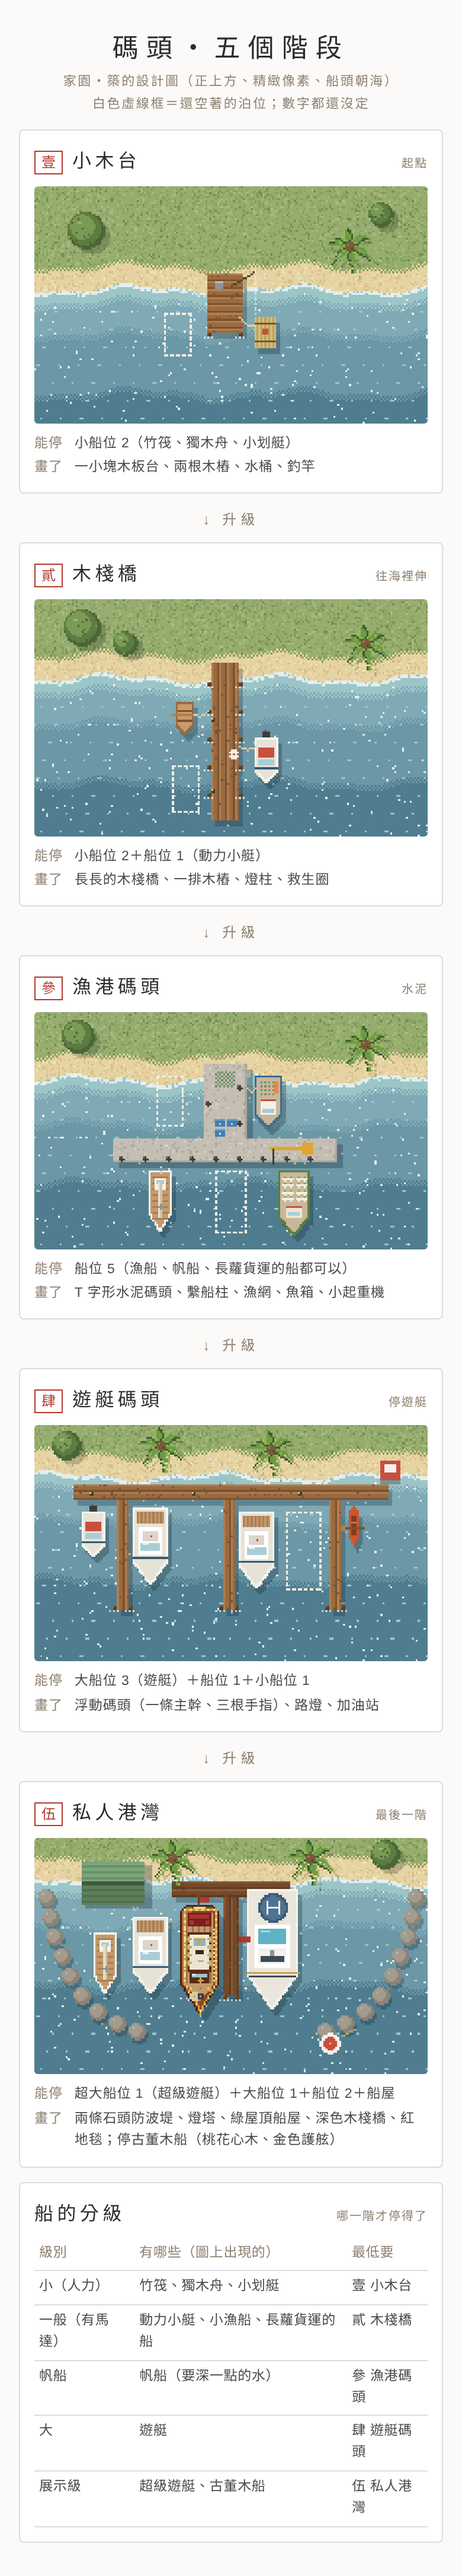
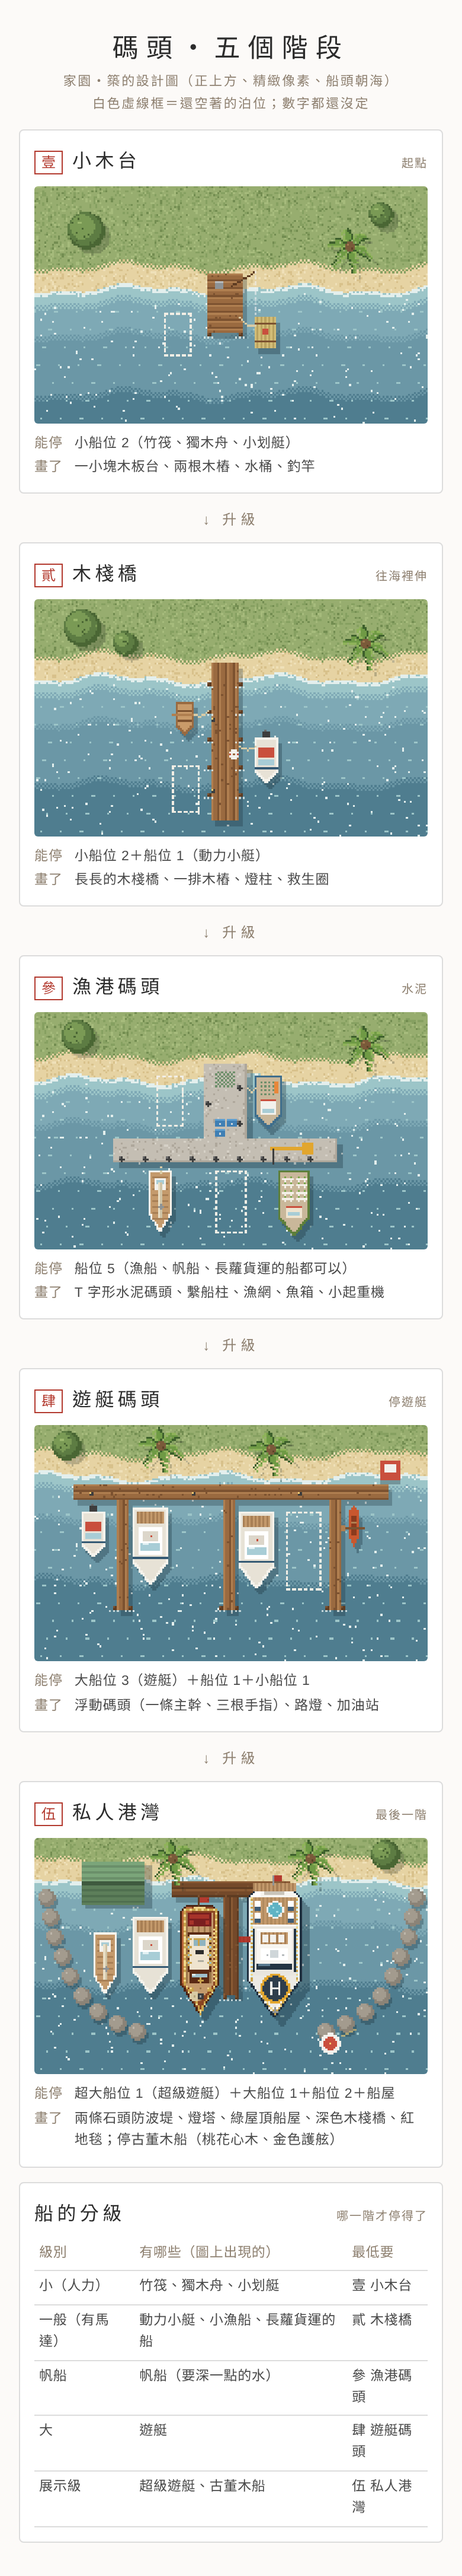
docs: upgrade superyacht and tall ship designs
Claude-Session: https://claude.ai/code/session_01DfELKGAuUeHGLNNJha5AAX

Changed region(s): [[0.5231, 0.7151, 0.6769, 0.8084]]

diff --git a/docs/plans/jiayuan/boats.html b/docs/plans/jiayuan/boats.html
@@ -53,7 +53,7 @@
   </section>
   <section class="card">
     <div class="h"><span class="name">展示級</span><span class="tag">最低要 伍 私人港灣・3 艘</span></div>
-    <canvas id="bShow" width="150" height="70"></canvas>
+    <canvas id="bShow" width="150" height="84"></canvas>
     <div id="bShowL" class="labels"></div>
   </section>
 </main>
@@ -164,11 +164,40 @@ function motorboat(x, a, b) { hull(x, a, b, 12, 24, 7, K.hull || '#f6f3ec'); pol
 function fishing(x, a, b) { hull(x, a, b, 14, 28, 8, '#3f6e8c'); poly(x, [[a + 1, b + 1], [a + 13, b + 1], [a + 13, b + 19], [a + 7, b + 26], [a + 1, b + 19]], '#c9b79a'); R(x, a + 3, b + 12, 8, 8, '#f3f1ec'); R(x, a + 4, b + 17, 6, 2, K.glass); R(x, a + 3, b + 12, 8, 1, '#c94f3d'); for (let i = 0; i < 4; i++) for (let j = 0; j < 4; j++) P(x, a + 3 + i * 2, b + 3 + j * 2, '#6d8f6a'); R(x, a + 10, b + 3, 2, 6, '#e8873a'); }
 function sailboat(x, a, b) { hull(x, a, b, 12, 32, 10, '#f6f3ec'); poly(x, [[a + 1, b + 1], [a + 11, b + 1], [a + 11, b + 21], [a + 6, b + 30], [a + 1, b + 21]], '#c49a6c'); for (let j = 3; j < 26; j += 3) R(x, a + 2, b + j, 8, 1, '#a87f55'); R(x, a + 3, b + 4, 6, 6, '#f3f1ec'); R(x, a + 4, b + 5, 4, 2, K.glass); R(x, a + 5, b + 6, 2, 18, '#e9dfc6'); R(x, a + 6, b + 6, 1, 18, '#cfc3a5'); circ(x, a + 6, b + 18, 1, '#8e9396'); R(x, a, b + 31, 12, 0, '#000'); }
 function yacht(x, a, b) { hull(x, a, b, 18, 40, 12, '#f6f3ec'); poly(x, [[a + 1, b + 1], [a + 17, b + 1], [a + 17, b + 27], [a + 9, b + 38], [a + 1, b + 27]], '#e7e2d6'); R(x, a + 2, b + 2, 14, 6, '#c49a6c'); for (let i = 2; i < 16; i += 2) R(x, a + i, b + 2, 1, 6, '#a87f55'); R(x, a + 3, b + 10, 12, 14, '#ffffff'); R(x, a + 4, b + 18, 10, 4, K.glass); R(x, a + 5, b + 18, 3, 1, K.glassHi); R(x, a + 5, b + 12, 8, 5, '#dcd6ca'); R(x, a, b + 25, 18, 1, '#355a74'); P(x, a + 9, b + 14, '#c94f3d'); }
-function superyacht(x, a, b) { hull(x, a, b, 26, 62, 18, '#f6f3ec'); poly(x, [[a + 1, b + 1], [a + 25, b + 1], [a + 25, b + 43], [a + 13, b + 60], [a + 1, b + 43]], '#ebe6db');
-  circ(x, a + 13, b + 9, 7, '#3d5a73'); circ(x, a + 13, b + 9, 6, '#4f7393'); R(x, a + 10, b + 6, 1, 7, '#f3f1ec'); R(x, a + 16, b + 6, 1, 7, '#f3f1ec'); R(x, a + 10, b + 9, 7, 1, '#f3f1ec');   // 直升機停機坪
-  R(x, a + 4, b + 18, 18, 22, '#ffffff'); R(x, a + 6, b + 20, 14, 8, '#5fb3c4'); R(x, a + 7, b + 21, 5, 1, '#9fdce4');   // 小泳池
-  R(x, a + 6, b + 30, 14, 8, '#f3f1ec'); R(x, a + 7, b + 34, 12, 3, '#3d4a55'); R(x, a + 12, b + 31, 2, 3, '#8e9396');   // 艦橋
-  R(x, a, b + 42, 26, 1, '#c9a24a'); R(x, a + 1, b + 44, 24, 1, '#3d4a55'); }
+function superyacht(x, a, b) {   // 超級遊艇（展示級）：28 × 66；船尾（上）游泳平台、按摩池，船頭（下）直升機坪
+  const W = 28, L = 66, bow = 20;
+  const outer = [[a + 4, b], [a + W - 4, b], [a + W, b + 5], [a + W, b + L - bow], [a + W / 2, b + L], [a, b + L - bow], [a, b + 5]];
+  poly(x, outer.map(([u, v]) => [u + 4, v + 5]), 'rgba(20,40,50,.32)');
+  poly(x, outer, '#1f2f3f');                                                                   // 深藍吃水線
+  const hullIn = [[a + 4, b + 1], [a + W - 4, b + 1], [a + W - 1, b + 5], [a + W - 1, b + L - bow], [a + W / 2, b + L - 2], [a + 1, b + L - bow], [a + 1, b + 5]];
+  poly(x, hullIn, '#f7f5f0'); poly(x, [[a + 4, b + 1], [a + 7, b + 1], [a + 3, b + L - bow], [a + 1, b + L - bow], [a + 1, b + 5]], '#ffffff');
+  const line = (pts, c1, c2) => { for (let k = 0; k < pts.length - 1; k++) { const [x0, y0] = pts[k], [x1, y1] = pts[k + 1], n = Math.max(Math.abs(x1 - x0), Math.abs(y1 - y0)); for (let i = 0; i <= n; i++) P(x, x0 + (x1 - x0) * i / n, y0 + (y1 - y0) * i / n, (i + k) % 3 ? c1 : c2); } };
+  line([[a + 2, b + 4], [a + 2, b + L - bow], [a + W / 2, b + L - 3], [a + W - 3, b + L - bow], [a + W - 3, b + 4]], '#c9a24a', '#f0d58a');   // 金色細線
+  // 船尾：柚木游泳平台＋小艇車庫門
+  R(x, a + 3, b - 3, W - 6, 4, '#c49a6c'); for (let i = 3; i < W - 3; i += 2) R(x, a + i, b - 3, 1, 4, '#a87f55'); R(x, a + 9, b + 1, 10, 2, '#c9c4b9');
+  // 主甲板（後段）：柚木＋按摩池＋躺椅
+  for (let v = b + 4; v < b + 18; v++) for (let u = a + 3; u < a + W - 3; u++) P(x, u, v, (u - a) % 2 ? '#c49a6c' : '#b08a5e');
+  circ(x, a + 14, b + 10, 4, '#f3f1ec'); circ(x, a + 14, b + 10, 3, '#5fb3c4'); P(x, a + 13, b + 9, '#9fdce4'); P(x, a + 15, b + 11, '#9fdce4');
+  [[a + 4, b + 6], [a + 21, b + 6], [a + 4, b + 12], [a + 21, b + 12]].forEach(([u, v]) => { R(x, u, v, 3, 5, '#ffffff'); R(x, u, v + 3, 3, 2, '#3d5a73'); });
+  // 上層甲板（往前一層一層疊）：深色玻璃帶、天線架、雷達球
+  R(x, a + 3, b + 18, W - 6, 26, '#e9e6df'); R(x, a + 3, b + 18, W - 6, 1, '#ffffff');
+  R(x, a + 3, b + 20, 1, 22, '#243543'); R(x, a + W - 4, b + 20, 1, 22, '#243543');               // 兩側長窗
+  R(x, a + 5, b + 20, W - 10, 18, '#f7f5f0'); R(x, a + 5, b + 20, W - 10, 1, '#ffffff');           // 第二層
+  R(x, a + 7, b + 22, W - 14, 6, '#c49a6c'); for (let i = 7; i < W - 7; i += 2) R(x, a + i, b + 22, 1, 6, '#a87f55');   // 日光甲板
+  [[a + 8, b + 23], [a + 12, b + 23], [a + 16, b + 23]].forEach(([u, v]) => R(x, u, v, 3, 4, '#f3f1ec'));
+  R(x, a + 7, b + 30, W - 14, 6, '#ffffff'); R(x, a + 12, b + 31, 4, 4, '#cfd6d9'); circ(x, a + 10, b + 33, 1, '#ffffff'); circ(x, a + 18, b + 33, 1, '#ffffff'); P(x, a + 10, b + 33, '#b8bcbe'); P(x, a + 18, b + 33, '#b8bcbe');   // 天線架＋兩顆雷達球
+  R(x, a + 5, b + 38, W - 10, 3, '#243543'); R(x, a + 6, b + 38, 6, 1, '#5a7a8f');                // 駕駛台的弧形黑玻璃
+  // 前甲板：直升機坪（深色圓、白 H、黃圈）
+  for (let v = b + 44; v < b + L - bow + 2; v++) for (let u = a + 3; u < a + W - 3; u++) P(x, u, v, '#eceae4');
+  poly(x, [[a + 3, b + L - bow + 2], [a + W - 3, b + L - bow + 2], [a + W / 2, b + L - 5]], '#eceae4');
+  const hx = a + W / 2, hy = b + 50;
+  circ(x, hx, hy, 7, '#e2a62e'); circ(x, hx, hy, 6, '#2f3e4c'); R(x, hx - 2, hy - 3, 1, 7, '#f3f1ec'); R(x, hx + 2, hy - 3, 1, 7, '#f3f1ec'); R(x, hx - 2, hy, 5, 1, '#f3f1ec');
+  // 船頭：錨＋旗桿
+  R(x, hx, b + L - 6, 1, 3, '#8e9396'); P(x, hx - 1, b + L - 4, '#8e9396'); P(x, hx + 1, b + L - 4, '#8e9396');
+  R(x, a + 13, b - 7, 1, 5, '#8e9396'); R(x, a + 14, b - 7, 4, 3, '#b33a2f');
+  // 欄杆（玻璃）
+  for (let v = b + 6; v < b + L - bow; v += 2) { P(x, a + 2, v, '#d6eef2'); P(x, a + W - 3, v, '#d6eef2'); }
+}
 function runabout(x, a, b) {   // 古董木船（展示級）：1930 年代的桃花心木遊艇，20 × 56；船尾圓（上）、船頭尖（下）
   const W = 20, L = 56, bow = 16;
   const outer = [[a + 3, b], [a + W - 3, b], [a + W, b + 4], [a + W, b + L - bow], [a + W / 2, b + L], [a, b + L - bow], [a, b + 4]];
@@ -248,18 +277,45 @@ function sportfisher(x, a, b) {   // 釣魚遊艇：塔架、兩根外伸竿
   R(x, a + 4, b + 13, 8, 5, '#3d4a55'); R(x, a + 4, b + 13, 8, 1, '#6a7f8e');   // 塔架頂
   for (let i = 0; i < 14; i++) { P(x, a + 2 - i * .8, b + 14 - i * .5, '#8e9396'); P(x, a + 14 + i * .8, b + 14 - i * .5, '#8e9396'); }
   R(x, a, b + 24, 16, 1, '#c94f3d'); }
-function tallShip(x, a, b) {   // 古典三桅帆船：木頭、三根桅、收起來的帆
-  hull(x, a, b, 16, 58, 14, '#4a2e1c'); poly(x, [[a + 1, b + 1], [a + 15, b + 1], [a + 15, b + 43], [a + 8, b + 56], [a + 1, b + 43]], '#b98a5a');
-  for (let j = 3; j < 44; j += 3) R(x, a + 2, b + j, 12, 1, '#a07448');
-  R(x, a, b, 16, 6, '#3a2416'); R(x, a + 2, b + 1, 12, 3, '#c9a24a');
-  [b + 12, b + 26, b + 40].forEach((v, k) => { R(x, a - 4 + k, v, 24 - k * 2, 3, '#efe4cf'); R(x, a - 4 + k, v + 2, 24 - k * 2, 1, '#d6c8a8'); circ(x, a + 8, v + 1, 1, '#3a2416'); });
-  for (let i = 0; i < 10; i++) P(x, a + 8, b + 47 + i, '#3a2416'); P(x, a + 8, b + 57, '#3a2416'); }
+function tallShip(x, a, b) {   // 古典三桅帆船（展示級）：船身 20 × 62，帆張開比船身寬；船尾（上）雕花樓台，船頭（下）斜桅和船首像
+  const W = 20, L = 62, bow = 16;
+  const outer = [[a + 2, b], [a + W - 2, b], [a + W, b + 6], [a + W, b + L - bow], [a + W / 2, b + L], [a, b + L - bow], [a, b + 6]];
+  poly(x, outer.map(([u, v]) => [u + 4, v + 5]), 'rgba(20,40,50,.32)');
+  poly(x, outer, '#2a1a10');
+  poly(x, [[a + 2, b + 1], [a + W - 2, b + 1], [a + W - 1, b + 6], [a + W - 1, b + L - bow], [a + W / 2, b + L - 2], [a + 1, b + L - bow], [a + 1, b + 6]], '#3f2616');
+  // 船邊：黃色腰帶＋一排方形砲窗
+  for (let v = b + 8; v < b + L - bow; v++) { P(x, a + 1, v, '#d9a441'); P(x, a + W - 2, v, '#d9a441'); }
+  for (let v = b + 10; v < b + L - bow - 2; v += 5) { R(x, a, v, 1, 2, '#1a0f08'); R(x, a + W - 1, v, 1, 2, '#1a0f08'); }
+  // 甲板（柚木）
+  for (let v = b + 4; v < b + L - bow + 4; v++) for (let u = a + 3; u < a + W - 3; u++) P(x, u, v, (u - a) % 3 === 0 ? '#9a7448' : '#c49a6c');
+  poly(x, [[a + 3, b + L - bow + 4], [a + W - 3, b + L - bow + 4], [a + W / 2, b + L - 5]], '#c49a6c');
+  // 船尾樓台：深色木頭、金色雕花窗、提燈、舵輪
+  R(x, a + 2, b + 1, W - 4, 9, '#5a2a14'); for (let i = 0; i < 5; i++) { R(x, a + 4 + i * 3, b + 2, 2, 2, '#f6cd72'); P(x, a + 4 + i * 3, b + 1, '#c9a24a'); }
+  R(x, a + 3, b + 5, W - 6, 1, '#c9a24a'); R(x, a + 3, b + 9, W - 6, 1, '#c9a24a');
+  circ(x, a + W / 2, b + 7, 1, '#c9a24a'); P(x, a + W / 2, b + 7, '#5a2a14');
+  R(x, a + W / 2 - 1, b - 3, 2, 3, '#c9a24a'); P(x, a + W / 2 - 1, b - 2, '#f6cd72'); P(x, a + W / 2, b - 2, '#f6cd72');   // 船尾提燈
+  R(x, a + W / 2 + 3, b - 6, 1, 6, '#5e3c22'); R(x, a + W / 2 + 4, b - 6, 5, 3, '#b33a2f');   // 朱色旗
+  // 救生艇
+  R(x, a + 4, b + 12, 3, 6, '#efe4cf'); R(x, a + 13, b + 12, 3, 6, '#efe4cf');
+  // 三根桅：張開的方帆（米白、有弧度陰影），帆比船身寬
+  [[b + 18, 30], [b + 32, 34], [b + 46, 28]].forEach(([v, sw]) => {
+    const sx = a + W / 2 - sw / 2;
+    R(x, sx + 3, v + 4, sw, 7, 'rgba(20,40,50,.25)');                                           // 帆的影子
+    for (let j = 0; j < 7; j++) for (let i = 0; i < sw; i++) { const bulge = Math.sin(i / (sw - 1) * Math.PI); let c = j < 2 ? '#fbf5e6' : j < 5 ? '#efe4cf' : '#d9c9a8'; if (bulge < .25) c = j < 4 ? '#e2d5b6' : '#cbb994'; if (i % 6 === 0) c = '#d2c3a2'; P(x, sx + i, v + j + Math.round(bulge * 1.5), c); }
+    R(x, sx - 1, v - 1, sw + 2, 1, '#3f2616');                                                   // 帆桁
+    circ(x, a + W / 2, v + 3, 2, '#3f2616'); P(x, a + W / 2, v + 3, '#c9a24a');                  // 桅頂瞭望台
+    for (let k = 0; k < 4; k++) { P(x, sx - 2 - k, v + 8 + k, '#8a7a62'); P(x, sx + sw + 1 + k, v + 8 + k, '#8a7a62'); }   // 索具
+  });
+  // 船頭：斜桅、三角帆、金色船首像
+  R(x, a + W / 2, b + L - 4, 1, 10, '#3f2616'); poly(x, [[a + W / 2 + 1, b + L - 2], [a + W / 2 + 1, b + L + 5], [a + W / 2 + 5, b + L - 1]], '#efe4cf');
+  P(x, a + W / 2, b + L - 3, '#f0d58a'); P(x, a + W / 2 - 1, b + L - 4, '#c9a24a');
+}
 
 const SMALL = [['竹筏', '竹子綁的', raft], ['獨木舟', '一支槳', canoe], ['小划艇', '兩支槳、木頭座位', rowboat], ['天鵝船', '用腳踩的', swan], ['立槳板', '站著划', sup]];
 const MOTOR = [['動力小艇', '後面掛馬達', motorboat], ['小漁船', '漁網、船艙', fishing], ['長蘿貨運的船', '載滿蘿蔔', cargo]];
 const SAIL = [['小帆船', '一面三角帆', dinghy], ['單桅帆船', '木甲板、收起來的帆', sailboat], ['雙體帆船', '兩個船身、中間網子', catamaran], ['戎克船', '紅色竹骨帆', junk]];
 const BIG = [['白色遊艇', '木甲板、日光甲板', yacht], ['深藍遊艇', '深藍船身、金線', yachtNavy], ['雙體遊艇', '很寬、很穩', powerCat], ['釣魚遊艇', '塔架、兩根外伸竿', sportfisher]];
-const SHOW = [['超級遊艇', '直升機坪、泳池', superyacht], ['古董木船', '1930 年代桃花心木遊艇', runabout], ['古典三桅帆船', '三根桅、木頭船身', tallShip]];
+const SHOW = [['超級遊艇', '直升機坪、按摩池、雷達球', superyacht], ['古董木船', '1930 年代桃花心木遊艇', runabout], ['古典三桅帆船', '張開的方帆、雕花船尾', tallShip]];
 
 function sheetSea(id, list, H) {
   const { x, W } = make(id), n = list.length, colW = W / n;
@@ -275,7 +331,7 @@ function sheetSea(id, list, H) {
   const el = document.getElementById(id + 'L'); el.style.gridTemplateColumns = `repeat(${n}, 1fr)`;
   el.innerHTML = list.map(([name, note]) => `<div><b>${name}</b><span>${note}</span></div>`).join('');
 }
-sheetSea('bSmall', SMALL, 32); sheetSea('bMotor', MOTOR, 44); sheetSea('bSail', SAIL, 46); sheetSea('bBig', BIG, 50); sheetSea('bShow', SHOW, 70);
+sheetSea('bSmall', SMALL, 32); sheetSea('bMotor', MOTOR, 44); sheetSea('bSail', SAIL, 46); sheetSea('bBig', BIG, 50); sheetSea('bShow', SHOW, 84);
 
 </script>
 </body>

diff --git a/docs/plans/jiayuan/dock-stages.html b/docs/plans/jiayuan/dock-stages.html
@@ -180,11 +180,40 @@ function motorboat(x, a, b) { hull(x, a, b, 12, 24, 7, K.hull || '#f6f3ec'); pol
 function fishing(x, a, b) { hull(x, a, b, 14, 28, 8, '#3f6e8c'); poly(x, [[a + 1, b + 1], [a + 13, b + 1], [a + 13, b + 19], [a + 7, b + 26], [a + 1, b + 19]], '#c9b79a'); R(x, a + 3, b + 12, 8, 8, '#f3f1ec'); R(x, a + 4, b + 17, 6, 2, K.glass); R(x, a + 3, b + 12, 8, 1, '#c94f3d'); for (let i = 0; i < 4; i++) for (let j = 0; j < 4; j++) P(x, a + 3 + i * 2, b + 3 + j * 2, '#6d8f6a'); R(x, a + 10, b + 3, 2, 6, '#e8873a'); }
 function sailboat(x, a, b) { hull(x, a, b, 12, 32, 10, '#f6f3ec'); poly(x, [[a + 1, b + 1], [a + 11, b + 1], [a + 11, b + 21], [a + 6, b + 30], [a + 1, b + 21]], '#c49a6c'); for (let j = 3; j < 26; j += 3) R(x, a + 2, b + j, 8, 1, '#a87f55'); R(x, a + 3, b + 4, 6, 6, '#f3f1ec'); R(x, a + 4, b + 5, 4, 2, K.glass); R(x, a + 5, b + 6, 2, 18, '#e9dfc6'); R(x, a + 6, b + 6, 1, 18, '#cfc3a5'); circ(x, a + 6, b + 18, 1, '#8e9396'); R(x, a, b + 31, 12, 0, '#000'); }
 function yacht(x, a, b) { hull(x, a, b, 18, 40, 12, '#f6f3ec'); poly(x, [[a + 1, b + 1], [a + 17, b + 1], [a + 17, b + 27], [a + 9, b + 38], [a + 1, b + 27]], '#e7e2d6'); R(x, a + 2, b + 2, 14, 6, '#c49a6c'); for (let i = 2; i < 16; i += 2) R(x, a + i, b + 2, 1, 6, '#a87f55'); R(x, a + 3, b + 10, 12, 14, '#ffffff'); R(x, a + 4, b + 18, 10, 4, K.glass); R(x, a + 5, b + 18, 3, 1, K.glassHi); R(x, a + 5, b + 12, 8, 5, '#dcd6ca'); R(x, a, b + 25, 18, 1, '#355a74'); P(x, a + 9, b + 14, '#c94f3d'); }
-function superyacht(x, a, b) { hull(x, a, b, 26, 62, 18, '#f6f3ec'); poly(x, [[a + 1, b + 1], [a + 25, b + 1], [a + 25, b + 43], [a + 13, b + 60], [a + 1, b + 43]], '#ebe6db');
-  circ(x, a + 13, b + 9, 7, '#3d5a73'); circ(x, a + 13, b + 9, 6, '#4f7393'); R(x, a + 10, b + 6, 1, 7, '#f3f1ec'); R(x, a + 16, b + 6, 1, 7, '#f3f1ec'); R(x, a + 10, b + 9, 7, 1, '#f3f1ec');   // 直升機停機坪
-  R(x, a + 4, b + 18, 18, 22, '#ffffff'); R(x, a + 6, b + 20, 14, 8, '#5fb3c4'); R(x, a + 7, b + 21, 5, 1, '#9fdce4');   // 小泳池
-  R(x, a + 6, b + 30, 14, 8, '#f3f1ec'); R(x, a + 7, b + 34, 12, 3, '#3d4a55'); R(x, a + 12, b + 31, 2, 3, '#8e9396');   // 艦橋
-  R(x, a, b + 42, 26, 1, '#c9a24a'); R(x, a + 1, b + 44, 24, 1, '#3d4a55'); }
+function superyacht(x, a, b) {   // 超級遊艇（展示級）：28 × 66；船尾（上）游泳平台、按摩池，船頭（下）直升機坪
+  const W = 28, L = 66, bow = 20;
+  const outer = [[a + 4, b], [a + W - 4, b], [a + W, b + 5], [a + W, b + L - bow], [a + W / 2, b + L], [a, b + L - bow], [a, b + 5]];
+  poly(x, outer.map(([u, v]) => [u + 4, v + 5]), 'rgba(20,40,50,.32)');
+  poly(x, outer, '#1f2f3f');                                                                   // 深藍吃水線
+  const hullIn = [[a + 4, b + 1], [a + W - 4, b + 1], [a + W - 1, b + 5], [a + W - 1, b + L - bow], [a + W / 2, b + L - 2], [a + 1, b + L - bow], [a + 1, b + 5]];
+  poly(x, hullIn, '#f7f5f0'); poly(x, [[a + 4, b + 1], [a + 7, b + 1], [a + 3, b + L - bow], [a + 1, b + L - bow], [a + 1, b + 5]], '#ffffff');
+  const line = (pts, c1, c2) => { for (let k = 0; k < pts.length - 1; k++) { const [x0, y0] = pts[k], [x1, y1] = pts[k + 1], n = Math.max(Math.abs(x1 - x0), Math.abs(y1 - y0)); for (let i = 0; i <= n; i++) P(x, x0 + (x1 - x0) * i / n, y0 + (y1 - y0) * i / n, (i + k) % 3 ? c1 : c2); } };
+  line([[a + 2, b + 4], [a + 2, b + L - bow], [a + W / 2, b + L - 3], [a + W - 3, b + L - bow], [a + W - 3, b + 4]], '#c9a24a', '#f0d58a');   // 金色細線
+  // 船尾：柚木游泳平台＋小艇車庫門
+  R(x, a + 3, b - 3, W - 6, 4, '#c49a6c'); for (let i = 3; i < W - 3; i += 2) R(x, a + i, b - 3, 1, 4, '#a87f55'); R(x, a + 9, b + 1, 10, 2, '#c9c4b9');
+  // 主甲板（後段）：柚木＋按摩池＋躺椅
+  for (let v = b + 4; v < b + 18; v++) for (let u = a + 3; u < a + W - 3; u++) P(x, u, v, (u - a) % 2 ? '#c49a6c' : '#b08a5e');
+  circ(x, a + 14, b + 10, 4, '#f3f1ec'); circ(x, a + 14, b + 10, 3, '#5fb3c4'); P(x, a + 13, b + 9, '#9fdce4'); P(x, a + 15, b + 11, '#9fdce4');
+  [[a + 4, b + 6], [a + 21, b + 6], [a + 4, b + 12], [a + 21, b + 12]].forEach(([u, v]) => { R(x, u, v, 3, 5, '#ffffff'); R(x, u, v + 3, 3, 2, '#3d5a73'); });
+  // 上層甲板（往前一層一層疊）：深色玻璃帶、天線架、雷達球
+  R(x, a + 3, b + 18, W - 6, 26, '#e9e6df'); R(x, a + 3, b + 18, W - 6, 1, '#ffffff');
+  R(x, a + 3, b + 20, 1, 22, '#243543'); R(x, a + W - 4, b + 20, 1, 22, '#243543');               // 兩側長窗
+  R(x, a + 5, b + 20, W - 10, 18, '#f7f5f0'); R(x, a + 5, b + 20, W - 10, 1, '#ffffff');           // 第二層
+  R(x, a + 7, b + 22, W - 14, 6, '#c49a6c'); for (let i = 7; i < W - 7; i += 2) R(x, a + i, b + 22, 1, 6, '#a87f55');   // 日光甲板
+  [[a + 8, b + 23], [a + 12, b + 23], [a + 16, b + 23]].forEach(([u, v]) => R(x, u, v, 3, 4, '#f3f1ec'));
+  R(x, a + 7, b + 30, W - 14, 6, '#ffffff'); R(x, a + 12, b + 31, 4, 4, '#cfd6d9'); circ(x, a + 10, b + 33, 1, '#ffffff'); circ(x, a + 18, b + 33, 1, '#ffffff'); P(x, a + 10, b + 33, '#b8bcbe'); P(x, a + 18, b + 33, '#b8bcbe');   // 天線架＋兩顆雷達球
+  R(x, a + 5, b + 38, W - 10, 3, '#243543'); R(x, a + 6, b + 38, 6, 1, '#5a7a8f');                // 駕駛台的弧形黑玻璃
+  // 前甲板：直升機坪（深色圓、白 H、黃圈）
+  for (let v = b + 44; v < b + L - bow + 2; v++) for (let u = a + 3; u < a + W - 3; u++) P(x, u, v, '#eceae4');
+  poly(x, [[a + 3, b + L - bow + 2], [a + W - 3, b + L - bow + 2], [a + W / 2, b + L - 5]], '#eceae4');
+  const hx = a + W / 2, hy = b + 50;
+  circ(x, hx, hy, 7, '#e2a62e'); circ(x, hx, hy, 6, '#2f3e4c'); R(x, hx - 2, hy - 3, 1, 7, '#f3f1ec'); R(x, hx + 2, hy - 3, 1, 7, '#f3f1ec'); R(x, hx - 2, hy, 5, 1, '#f3f1ec');
+  // 船頭：錨＋旗桿
+  R(x, hx, b + L - 6, 1, 3, '#8e9396'); P(x, hx - 1, b + L - 4, '#8e9396'); P(x, hx + 1, b + L - 4, '#8e9396');
+  R(x, a + 13, b - 7, 1, 5, '#8e9396'); R(x, a + 14, b - 7, 4, 3, '#b33a2f');
+  // 欄杆（玻璃）
+  for (let v = b + 6; v < b + L - bow; v += 2) { P(x, a + 2, v, '#d6eef2'); P(x, a + W - 3, v, '#d6eef2'); }
+}
 function runabout(x, a, b) {   // 古董木船（展示級）：1930 年代的桃花心木遊艇，20 × 56；船尾圓（上）、船頭尖（下）
   const W = 20, L = 56, bow = 16;
   const outer = [[a + 3, b], [a + W - 3, b], [a + W, b + 4], [a + W, b + L - bow], [a + W / 2, b + L], [a, b + L - bow], [a, b + 4]];

diff --git a/docs/plans/jiayuan/README.md b/docs/plans/jiayuan/README.md
@@ -68,6 +68,9 @@
   - 大 4：白色遊艇、深藍遊艇（金線）、雙體遊艇（很寬）、釣魚遊艇（塔架、兩根外伸竿）。
   - 展示級 3：超級遊艇（直升機坪、泳池）、古董木船、古典三桅帆船。
   - **古董木船**（2026-11-21 使用者說「再華麗一點、要有氣派感，體積也不對」，重畫）：1930 年代的桃花心木遊艇，20 × 56 顆，跟超級遊艇（26 × 62）差不多大。亮光漆桃花心木船身＋左邊反光、一圈金色護舷線、柚木甲板；船尾紅皮圓弧座位、金色名牌、朱色旗；中間奶油色艙房（兩排黃銅舷窗、天窗、黑頂煙囪）；駕駛艙（窗、金色舵輪）；前甲板黃銅繫船柱、捲好的繩子、錨機、船頭金色裝飾；欄杆是一排金點。碼頭的私人港灣也換成這一艘。
+  - **超級遊艇、古典三桅帆船**（2026-11-21 使用者說「很棒！也升級一下」，照古董木船的精緻度重畫）：
+    - 超級遊艇 28 × 66 顆：白色船身＋深藍吃水線＋金色細線；船尾柚木游泳平台、小艇車庫門、朱色旗；後甲板柚木、圓形按摩池、四張躺椅；上層一層層往前疊（兩側長黑窗、日光甲板和躺椅、天線架和兩顆白色雷達球、駕駛台弧形黑玻璃）；船頭直升機坪（黃圈深色圓白 H）；玻璃欄杆。私人港灣那艘也換了。
+    - 古典三桅帆船：船身 20 × 62 顆、帆比船身寬；深色木船身、黃色腰帶、兩排方形砲窗、柚木甲板；船尾雕花樓台（金框亮窗、舵輪、提燈、朱色旗）、兩艘救生艇；三根桅張開米白方帆（有弧度和陰影、帆桁、桅頂瞭望台、兩邊索具）；船頭斜桅、三角帆、金色船首像。
 - **車庫可以替換載具**（2026-11-21 使用者採納）：車庫的車位決定「停在島上看得到的車」；買的車可以比車位多，多的放在「寄放處」（不在島上畫，但算你的藏品、看得到清單）。點車位就能從寄放處換一台進來、或把這台收進去。**寄放處不設上限**（使用者定的）：車位只是「能展示幾台」。**但每一種車先只能買一台**（使用者 2026-11-21 定的，目錄裡每台車 `max: 1`；之後想開放買第二台只要改數字），所以一個人最多就是圖鑑上那幾台（現在 27 台），存檔大小不用擔心。資料上寄放處的車 `in` 寫 `depot`（不是哪一個車庫）。
 
 ## 擴充性（使用者 2026-11-21 要的：之後要能做到屋內裝潢，細到衣櫃裡的衣服、一個設施能放幾個）

diff --git a/changelog/2026-11.md b/changelog/2026-11.md
@@ -812,3 +812,7 @@
 ## 2026-11-21 13:35（台灣）　家園設計圖：古董木船重畫
 - 古董木船改成 1930 年代的桃花心木遊艇，變大（跟超級遊艇差不多），加了金色護舷線、紅皮座位、朱色旗、黃銅舷窗、煙囪、舵輪，比較有氣派。船的圖鑑和碼頭的私人港灣都換了。
 - 網站本身沒有改。
+
+## 2026-11-21 13:50（台灣）　家園設計圖：超級遊艇、古典三桅帆船升級
+- 照古董木船的精緻度重畫：超級遊艇加了游泳平台、按摩池、躺椅、一層層的甲板、雷達球、直升機坪；古典三桅帆船改成張開的方帆、雕花船尾、砲窗、船首像。船的圖鑑和私人港灣都換了。
+- 網站本身沒有改。
